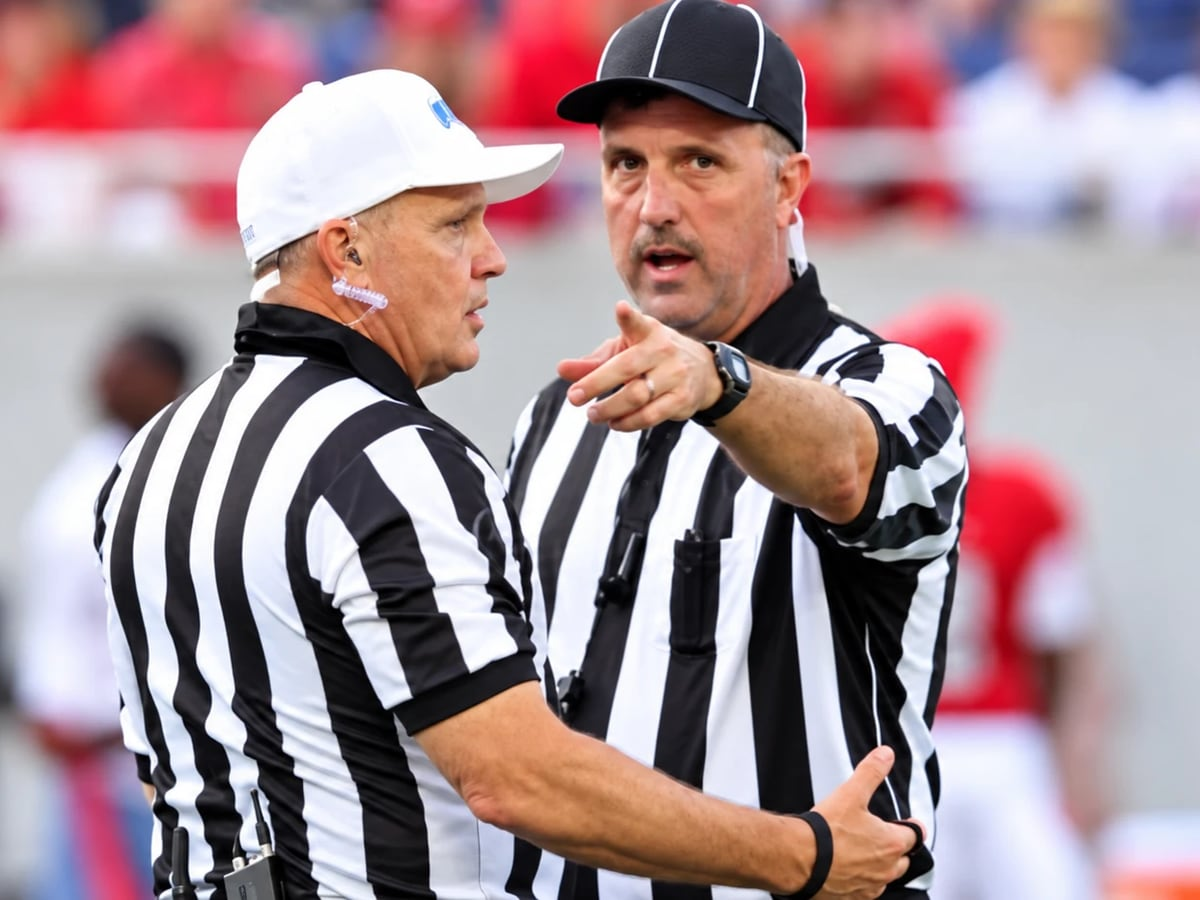
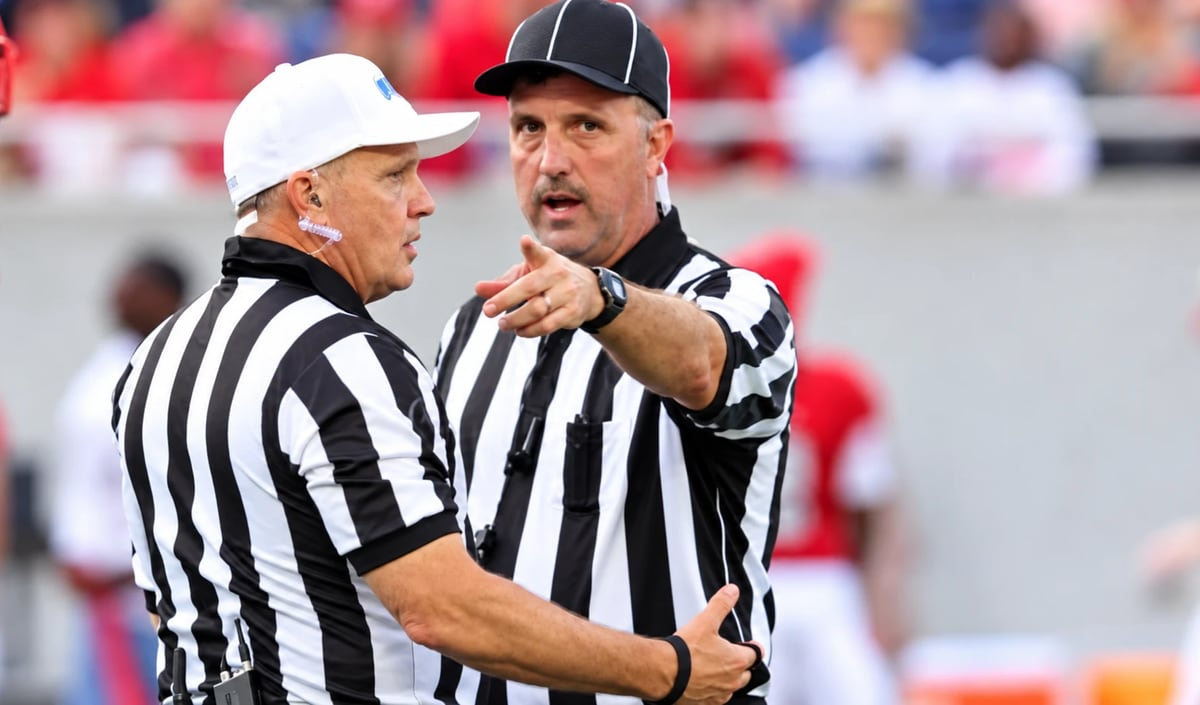
Keep learn-card photos the same height
The learn-card photo box grew when a photo was taller than its 16:9.4 shape,
so the 4:3 Communication photo made its card taller than the rest.
overflow:hidden lets the box hold its shape for any photo. Communication
photo recut to the same shape as the other four.

diff --git a/design-kit/kit.css b/design-kit/kit.css
@@ -322,7 +322,7 @@ h1,h2,h3{font-family:var(--font-display);color:var(--navy);line-height:1.05;marg
 /* learn-cards: photo, title and text under the photo */
 .learn-cards{display:grid;grid-template-columns:repeat(var(--cols,5),1fr);gap:14px;list-style:none;margin:0;padding:0}
 .learn-card{background:var(--white);border:1px solid var(--line);border-radius:var(--radius);overflow:hidden;display:flex;flex-direction:column}
-.learn-card__img{aspect-ratio:16/9.4;background:var(--mist)}
+.learn-card__img{aspect-ratio:16/9.4;overflow:hidden;background:var(--mist)}
 .learn-card__body{padding:14px 14px 18px;text-align:center}
 .learn-card h3{font-weight:800;font-size:21px;margin:0 0 6px}
 .learn-card p{margin:0;font-size:14.5px;color:var(--muted)}

diff --git a/src/styles/kit.css b/src/styles/kit.css
@@ -322,7 +322,7 @@ h1,h2,h3{font-family:var(--font-display);color:var(--navy);line-height:1.05;marg
 /* learn-cards: photo, title and text under the photo */
 .learn-cards{display:grid;grid-template-columns:repeat(var(--cols,5),1fr);gap:14px;list-style:none;margin:0;padding:0}
 .learn-card{background:var(--white);border:1px solid var(--line);border-radius:var(--radius);overflow:hidden;display:flex;flex-direction:column}
-.learn-card__img{aspect-ratio:16/9.4;background:var(--mist)}
+.learn-card__img{aspect-ratio:16/9.4;overflow:hidden;background:var(--mist)}
 .learn-card__body{padding:14px 14px 18px;text-align:center}
 .learn-card h3{font-weight:800;font-size:21px;margin:0 0 6px}
 .learn-card p{margin:0;font-size:14.5px;color:var(--muted)}
